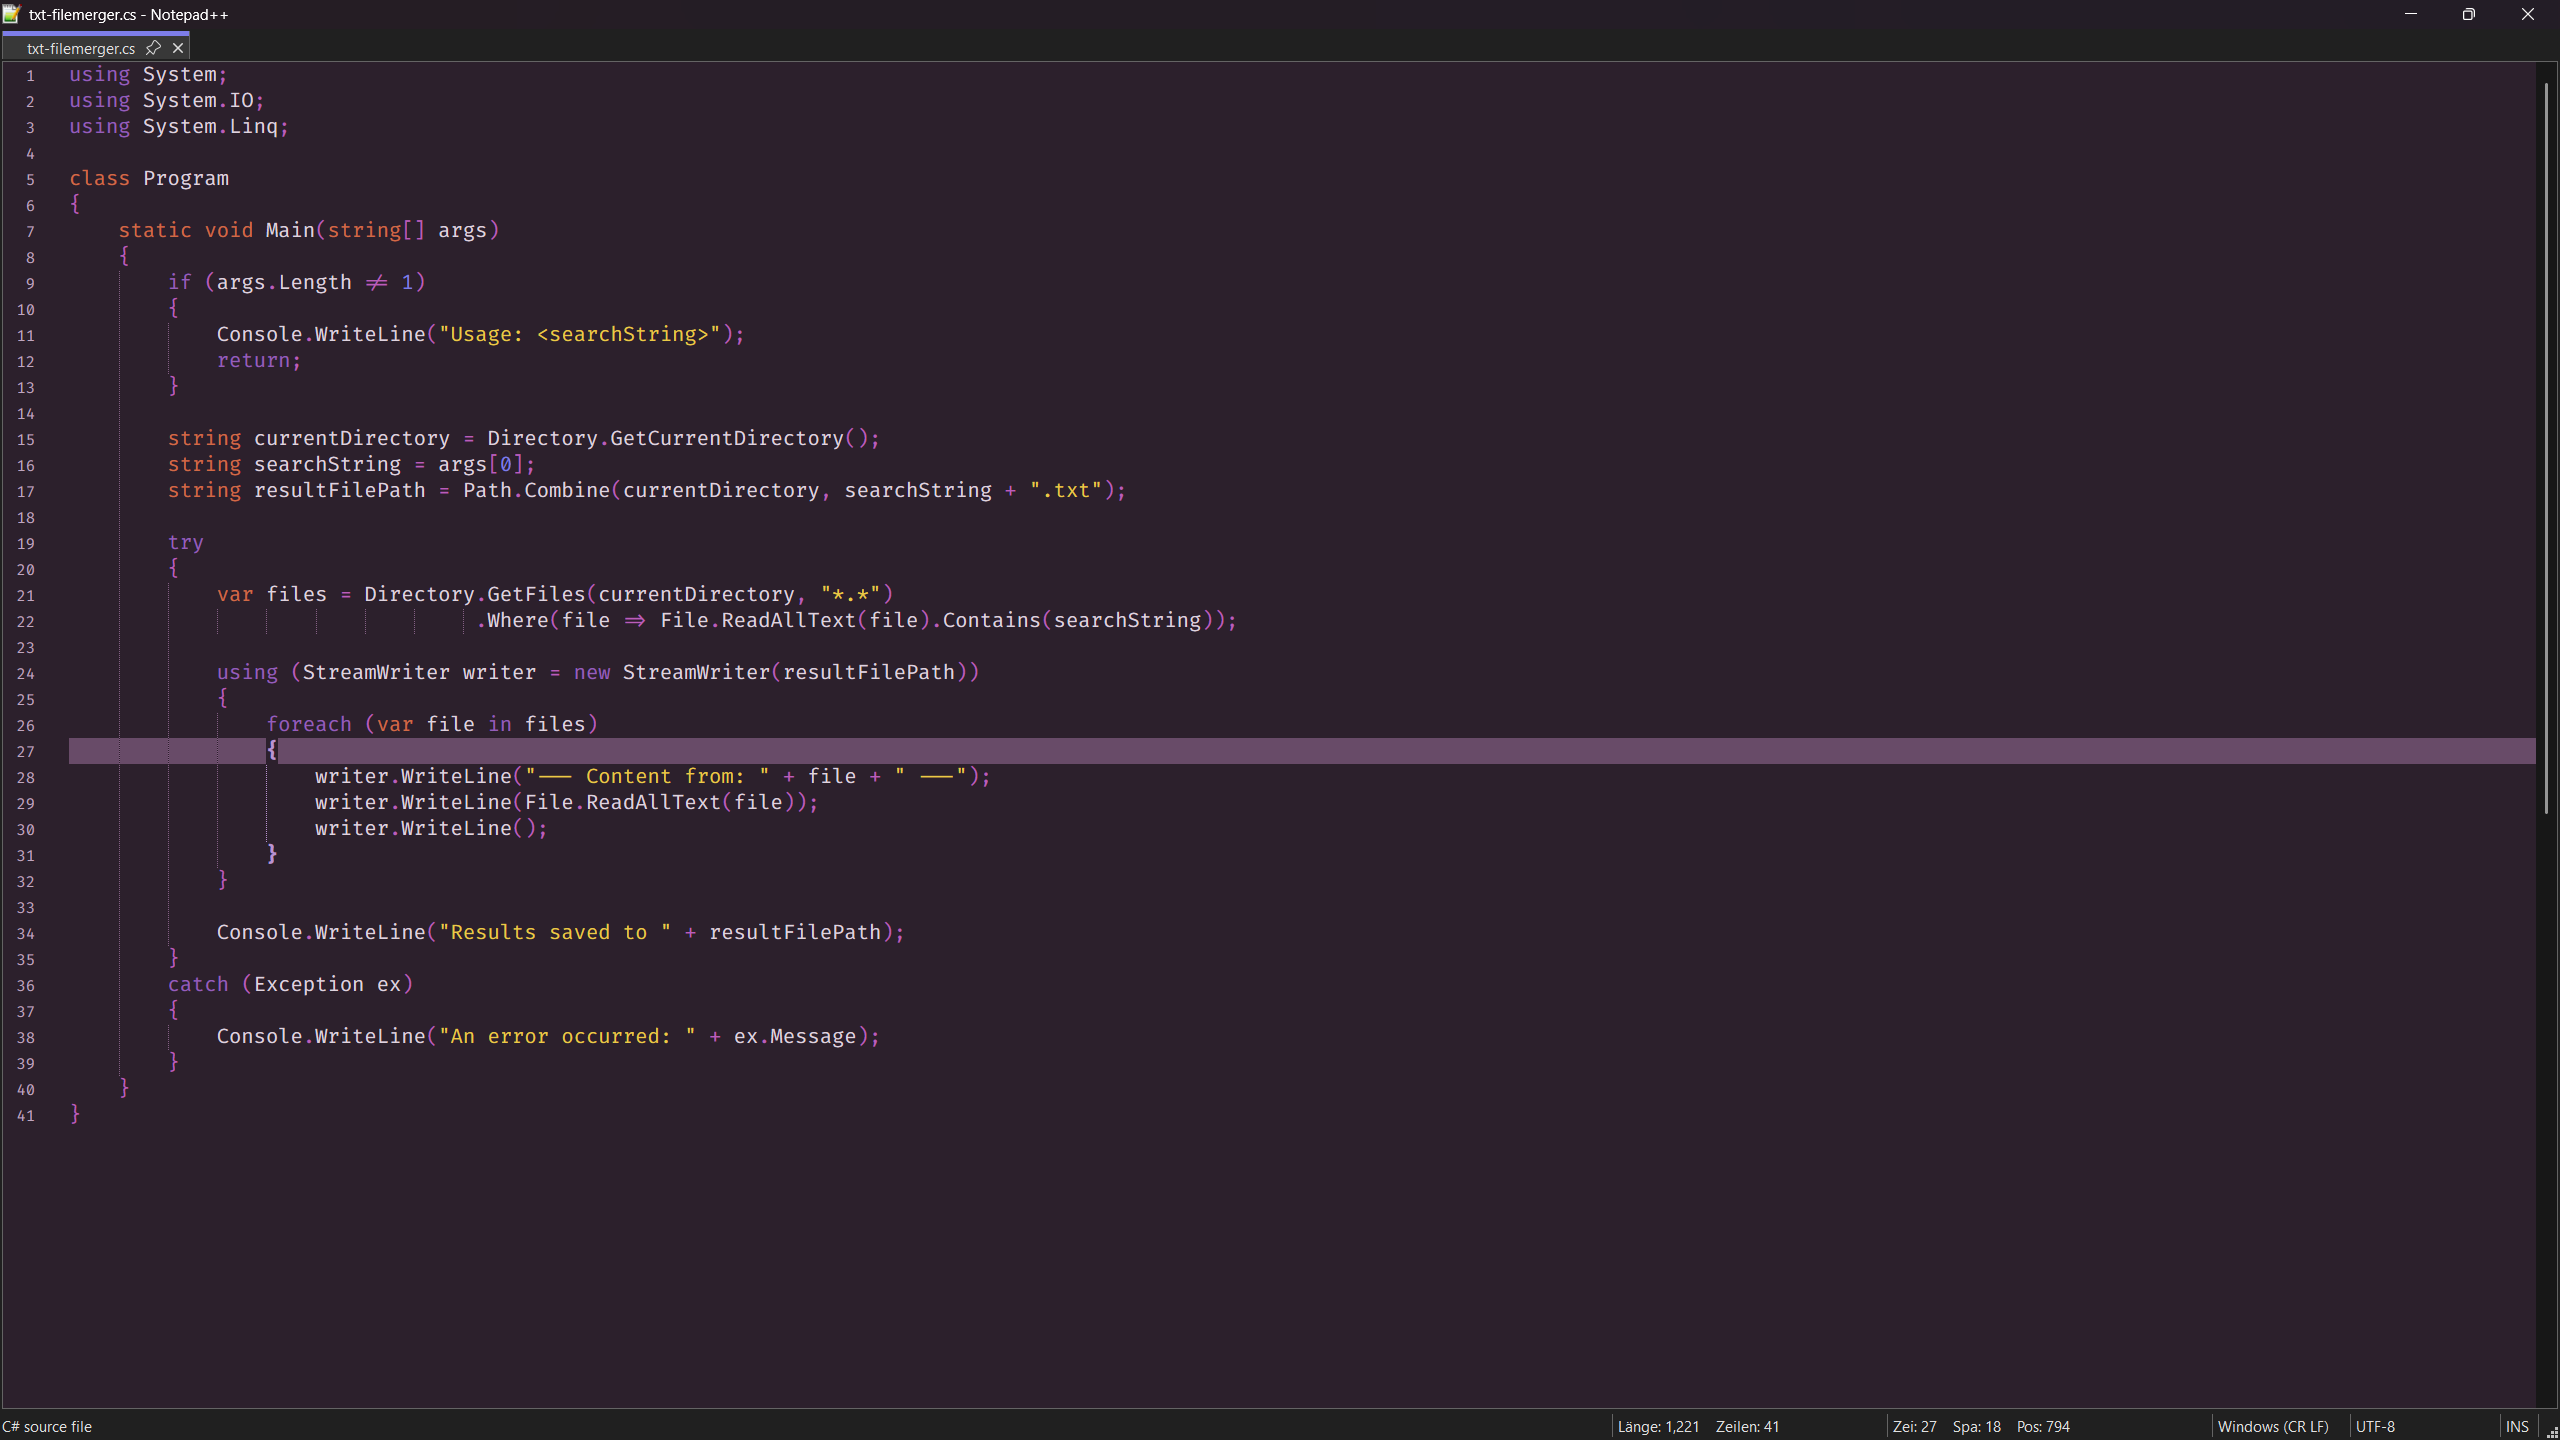
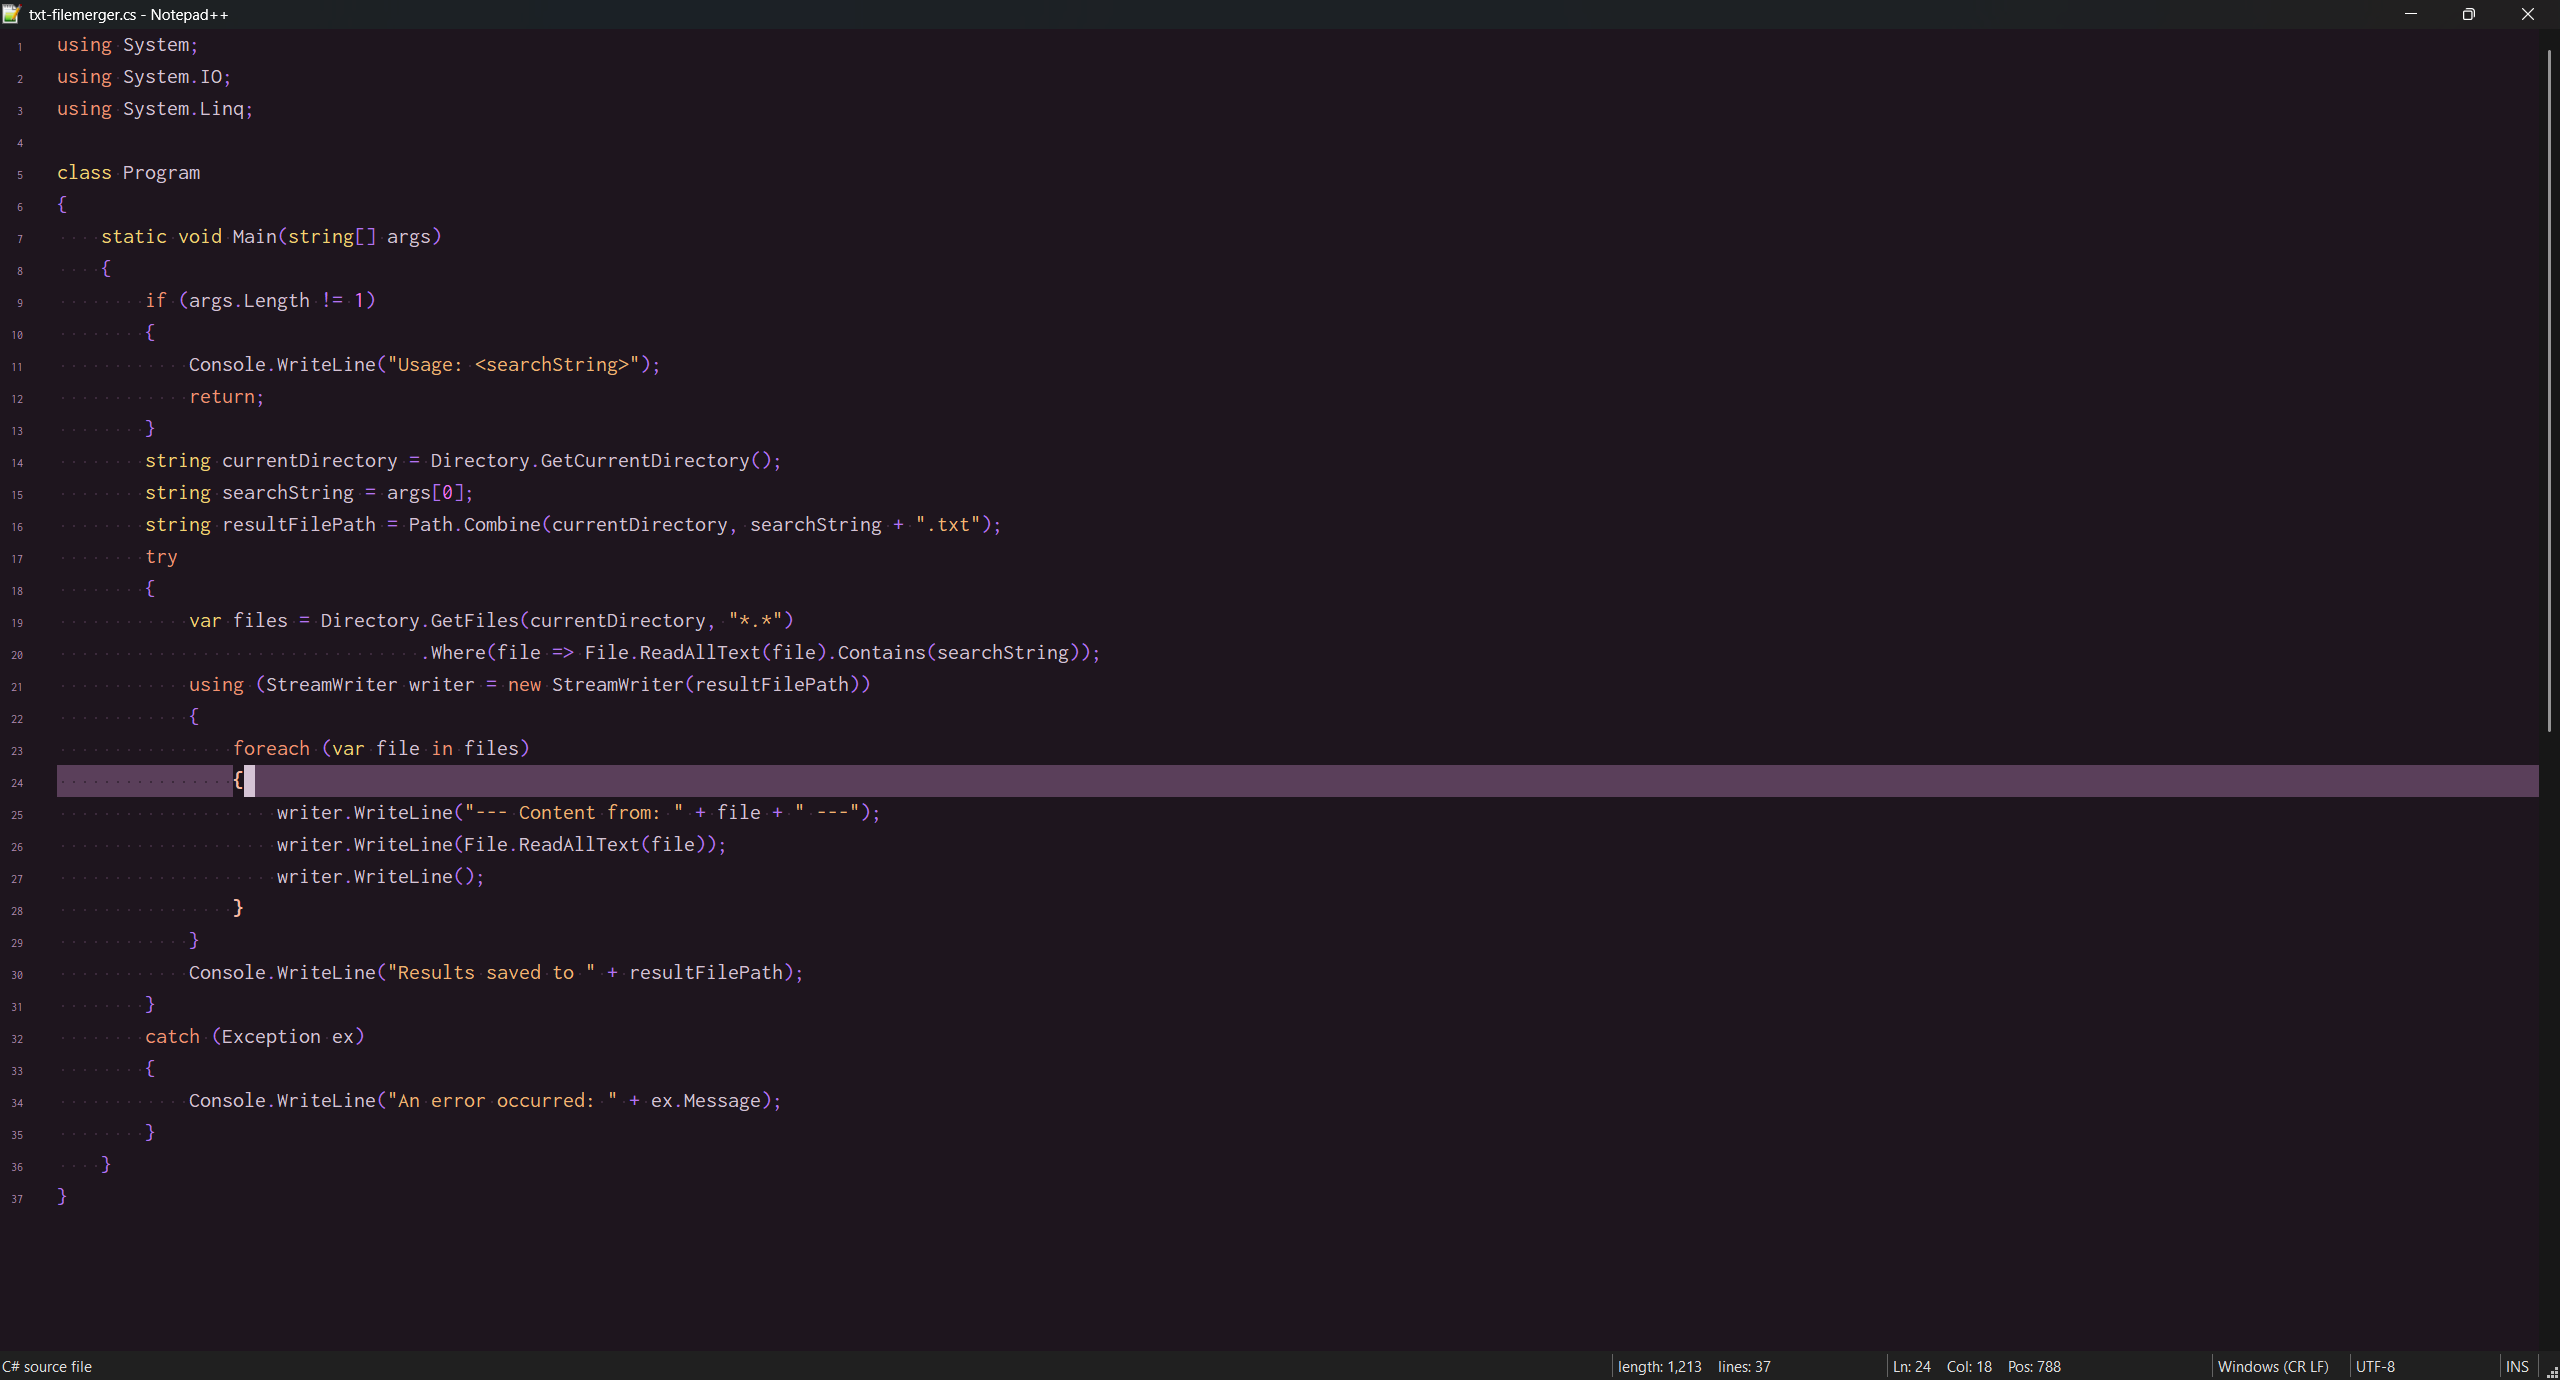
rework of main colors / background

diff --git a/scheme_files/other/dark-space.html b/scheme_files/other/dark-space.html
@@ -8,7 +8,7 @@ this template is meant as a reference sheet for your color theme
 		<meta charset="utf-8">
 		<meta name="List of Theme Colors" content="">
 		<style>
-			body {font-family: courier;}
+			body {font-family: monospace;}
 			h3 {font-size: 220%;}
 			table {font-size: 120%;border-collapse: collapse;}
 			td {padding: 18px;border: 1px solid black;}
@@ -33,48 +33,48 @@ this template is meant as a reference sheet for your color theme
 			in col 'HEX CODE'
 			-->
 				<td>Background - 1st level<br><a>UI: default text bg</a></td>
-				<td>#2c202c</td>
-				<td style="background-color:#2c202c;"></td>
+				<td>#1e151e</td>
+				<td style="background-color:#1e151e;"></td>
 			</tr>
 			<tr>
 				<td>Background - 2nd level<br><a>UI: inactive tabs / files text bg</a></td>
-				<td>#3b2b3b</td>
-				<td style="background-color:#3b2b3b;"></td>
+				<td>#2d1f2d</td>
+				<td style="background-color:#2d1f2d;"></td>
 			</tr>
 			<tr>
 				<td>Background - 3rd level<br><a>UI: separators, other bg symbols</a></td>
-				<td>#4a364a</td>
-				<td style="background-color:#4a364a;"></td>
+				<td>#3c2a3c</td>
+				<td style="background-color:#3c2a3c;"></td>
 			</tr>
 			<tr>
 				<td>Foreground - 1st level<br><a>UI: cursor<br>SYNTAX: default text fg</a></td>
-				<td>#dfd3df</td>
-				<td style="background-color:#dfd3df;"></td>
+				<td>#d5c3d5</td>
+				<td style="background-color:#d5c3d5;"></td>
 			</tr>
 			<tr>
 				<td>Foreground - 2nd level<br><a>UI: active tabs, inactive tabs / files text fg<br>SYNTAX: misc</a></td>
-				<td>#cebbce</td>
-				<td style="background-color:#cebbce;"></td>
+				<td>#c0a5c0</td>
+				<td style="background-color:#c0a5c0;"></td>
 			</tr>
 			<tr>
 				<td>Foreground - 3rd level<br><a>UI: fold, line numbers<br>SYNTAX: comments</a></td>
-				<td>#bfa6bf</td>
-				<td style="background-color:#bfa6bf;"></td>
+				<td>#ab87ab</td>
+				<td style="background-color:#ab87ab;"></td>
 			</tr>
 			<tr>
 				<td>Highlight - 1st level<br><a>UI: alternative marks</a></td>
-				<td>#9f7a9f</td>
-				<td style="background-color:#9f7a9f;"></td>
+				<td>#966996</td>
+				<td style="background-color:#966996;"></td>
 			</tr>	
 			<tr>
 				<td>Highlight - 2nd level<br><a>UI: selection, search marks, fold marks</a></td>
-				<td>#856085</td>
-				<td style="background-color:#856085;"></td>
+				<td>#785478</td>
+				<td style="background-color:#785478;"></td>
 			</tr>	
 			<tr>
 				<td>Highlight - 3rd level<br><a>UI: current line</a></td>
-				<td>#684b68</td>
-				<td style="background-color:#684b68;"></td>
+				<td>#5a3f5a</td>
+				<td style="background-color:#5a3f5a;"></td>
 			</tr>				
 		</table>
 		<br>
@@ -86,63 +86,63 @@ this template is meant as a reference sheet for your color theme
 			</tr>
 			<tr>
 				<td>main 1<br><a>UI: change history modified<br>SYNTAX: method, function, regex, alert, error</a></td>
-				<td>#f07c42</td>
-				<td style="background-color:#f07c42;"></td>
+				<td>#f471b3</td>
+				<td style="background-color:#f471b3;"></td>
 			</tr>
 			<tr>
 				<td>main 2<br><a>UI: change history revert origin<br>SYNTAX: class, group, section, type, pre-processor</a></td>
-				<td>#d16a47</td>
-				<td style="background-color:#d16a47;"></td>
+				<td>#f4d371</td>
+				<td style="background-color:#f4d371;"></td>
 			</tr>
 			<tr>
 				<td>main 3<br><a>SYNTAX: number, verbatim</a></td>
-				<td>#7d7de8</td>
-				<td style="background-color:#7d7de8;"></td>
+				<td>#f471f4</td>
+				<td style="background-color:#f471f4;"></td>
 			</tr>
 			<tr>
 				<td>main 4<br><a>SYNTAX: string, char, tag, label</a></td>
-				<td>#ebca47</td>
-				<td style="background-color:#ebca47;"></td>
+				<td>#f4b371</td>
+				<td style="background-color:#f4b371;"></td>
 			</tr>
 			<tr>
 				<td>main 5<br><a>UI: change history revert modified<br>SYNTAX: macro, opertor, attribute, variable</a></td>
-				<td>#ba5eba</td>
-				<td style="background-color:#ba5eba;"></td>
+				<td>#b371f4</td>
+				<td style="background-color:#b371f4;"></td>
 			</tr>
 			<tr>
 				<td>main 6<br><a>UI: change history saved<br>SYNTAX: instruction, keyword, command</a></td>
-				<td>#955eba</td>
-				<td style="background-color:#955eba;"></td>
+				<td>#f49271</td>
+				<td style="background-color:#f49271;"></td>
 			</tr>
 			<tr>
 				<td>sub 1<br><a>UI: tab color, misc color coding<br>SYNTAX: function(2), method(2), alert(2), error(2)</a></td>
-				<td>#f49d71</td>
-				<td style="background-color:#f49d71;"></td>
+				<td>#f8a0cc</td>
+				<td style="background-color:#f8a0cc;"></td>
 			</tr>
 			<tr>
 				<td>sub 2<br><a>UI: tab color, misc color coding<br>SYNTAX: type(2), section(2), group(2), class(2), arrays</a></td>
-				<td>#e09c85</td>
-				<td style="background-color:#e09c85;"></td>
+				<td>#f8e2a0</td>
+				<td style="background-color:#f8e2a0;"></td>
 			</tr>
 			<tr>
 				<td>sub 3<br><a>UI: tab color, misc color coding<br>SYNTAX: number(2), parameters(2)</a></td>
-				<td>#bebef4</td>
-				<td style="background-color:#bebef4;"></td>
+				<td>#f8a0f8</td>
+				<td style="background-color:#f8a0f8;"></td>
 			</tr>
 			<tr>
 				<td>sub 4<br><a>UI: tab color, misc color coding<br>SYNTAX: string(2), char(2), tag(2), label(2)</a></td>
-				<td>#f2de8c</td>
-				<td style="background-color:#f2de8c;"></td>
+				<td>#f8cca0</td>
+				<td style="background-color:#f8cca0;"></td>
 			</tr>
 			<tr>
 				<td>sub 5<br><a>UI: tab color, misc color coding<br>SYNTAX: operator(2), attribute(2), variable(2), identifiers</a></td>
-				<td>#d194d1</td>
-				<td style="background-color:#d194d1;"></td>
+				<td>#cca0f8</td>
+				<td style="background-color:#cca0f8;"></td>
 			</tr>
 			<tr>
 				<td>sub 6<br><a>UI: tab color, misc color coding<br>SYNTAX: instruction(2), keyword(2), command(2)</a></td>
-				<td>#b994d1</td>
-				<td style="background-color:#b994d1;"></td>
+				<td>#f8b6a0</td>
+				<td style="background-color:#f8b6a0;"></td>
 			</tr>				
 		</table>
 		<br>

diff --git a/scheme_files/vtuber_project/zentraya-dragon.html b/scheme_files/vtuber_project/zentraya-dragon.html
@@ -86,63 +86,63 @@ this template is meant as a reference sheet for your color theme
 			</tr>
 			<tr>
 				<td>main 1<br><a>UI: change history modified<br>SYNTAX: method, function, regex, alert, error</a></td>
-				<td>#f2e673</td>
-				<td style="background-color:#f0e675;"></td>
+				<td>#f7d56e</td>
+				<td style="background-color:#f7d56e;"></td>
 			</tr>
 			<tr>
 				<td>main 2<br><a>UI: change history revert origin<br>SYNTAX: class, group, section, type, pre-processor</a></td>
-				<td>#e0859c</td>
-				<td style="background-color:#e0859c;"></td>
+				<td>#f76eb3</td>
+				<td style="background-color:#f76eb3;"></td>
 			</tr>
 			<tr>
 				<td>main 3<br><a>SYNTAX: number, verbatim</a></td>
-				<td>#f7cd6e</td>
-				<td style="background-color:#f7cd6e;"></td>
-			</tr>
-			<tr>
-				<td>main 4<br><a>SYNTAX: string, char, tag, label</a></td>
-				<td>#f07575</td>
-				<td style="background-color:#f07575;"></td>
-			</tr>
-			<tr>
-				<td>main 5<br><a>UI: change history revert modified<br>SYNTAX: macro, opertor, attribute, variable</a></td>
 				<td>#f7b36e</td>
 				<td style="background-color:#f7b36e;"></td>
 			</tr>
 			<tr>
+				<td>main 4<br><a>SYNTAX: string, char, tag, label</a></td>
+				<td>#f76e90</td>
+				<td style="background-color:#f76e90;"></td>
+			</tr>
+			<tr>
+				<td>main 5<br><a>UI: change history revert modified<br>SYNTAX: macro, opertor, attribute, variable</a></td>
+				<td>#f7906e</td>
+				<td style="background-color:#f7906e;"></td>
+			</tr>
+			<tr>
 				<td>main 6<br><a>UI: change history saved<br>SYNTAX: instruction, keyword, command</a></td>
-				<td>#f09475</td>
-				<td style="background-color:#f09475;"></td>
+				<td>#f76e6e</td>
+				<td style="background-color:#f76e6e;"></td>
 			</tr>
 			<tr>
 				<td>sub 1<br><a>UI: tab color, misc color coding<br>SYNTAX: function(2), method(2), alert(2), error(2)</a></td>
-				<td>#f6eea2</td>
-				<td style="background-color:#f6eea2;"></td>
+				<td>#fae39e</td>
+				<td style="background-color:#fae39e;"></td>
 			</tr>
 			<tr>
 				<td>sub 2<br><a>UI: tab color, misc color coding<br>SYNTAX: type(2), section(2), group(2), class(2), arrays</a></td>
-				<td>#eaaebd</td>
-				<td style="background-color:#eaaebd;"></td>
+				<td>#fa9ecc</td>
+				<td style="background-color:#fa9ecc;"></td>
 			</tr>
 			<tr>
 				<td>sub 3<br><a>UI: tab color, misc color coding<br>SYNTAX: number(2), parameters(2)</a></td>
-				<td>#fade9e</td>
-				<td style="background-color:#fade9e;"></td>
-			</tr>
-			<tr>
-				<td>sub 4<br><a>UI: tab color, misc color coding<br>SYNTAX: string(2), char(2), tag(2), label(2)</a></td>
-				<td>#f5a3a3</td>
-				<td style="background-color:#f5a3a3;"></td>
-			</tr>
-			<tr>
-				<td>sub 5<br><a>UI: tab color, misc color coding<br>SYNTAX: operator(2), attribute(2), variable(2), identifiers</a></td>
 				<td>#facc9e</td>
 				<td style="background-color:#facc9e;"></td>
 			</tr>
 			<tr>
+				<td>sub 4<br><a>UI: tab color, misc color coding<br>SYNTAX: string(2), char(2), tag(2), label(2)</a></td>
+				<td>#fa9eb5</td>
+				<td style="background-color:#fa9eb5;"></td>
+			</tr>
+			<tr>
+				<td>sub 5<br><a>UI: tab color, misc color coding<br>SYNTAX: operator(2), attribute(2), variable(2), identifiers</a></td>
+				<td>#fab59e</td>
+				<td style="background-color:#fab59e;"></td>
+			</tr>
+			<tr>
 				<td>sub 6<br><a>UI: tab color, misc color coding<br>SYNTAX: instruction(2), keyword(2), command(2)</a></td>
-				<td>#f5b8a3</td>
-				<td style="background-color:#f5b8a3;"></td>
+				<td>#fa9e9e</td>
+				<td style="background-color:#fa9e9e;"></td>
 			</tr>				
 		</table>
 		<br>

diff --git a/scheme_files/vtuber_project/jinja-dark-red.html b/scheme_files/vtuber_project/jinja-dark-red.html
@@ -33,18 +33,18 @@ this template is meant as a reference sheet for your color theme
 			in col 'HEX CODE'
 			-->
 				<td>Background - 1st level<br><a>UI: default text bg</a></td>
-				<td>#2c1f2e</td>
-				<td style="background-color:#2c1f2e;"></td>
+				<td>#29222a</td>
+				<td style="background-color:#29222a;"></td>
 			</tr>
 			<tr>
 				<td>Background - 2nd level<br><a>UI: inactive tabs / files text bg</a></td>
-				<td>#3a293d</td>
-				<td style="background-color:#3a293d;"></td>
+				<td>#372d39</td>
+				<td style="background-color:#372d39;"></td>
 			</tr>
 			<tr>
 				<td>Background - 3rd level<br><a>UI: separators, other bg symbols</a></td>
-				<td>#49344c</td>
-				<td style="background-color:#49344c;"></td>
+				<td>#453947</td>
+				<td style="background-color:#453947;"></td>
 			</tr>
 			<tr>
 				<td>Foreground - 1st level<br><a>UI: cursor<br>SYNTAX: default text fg</a></td>
